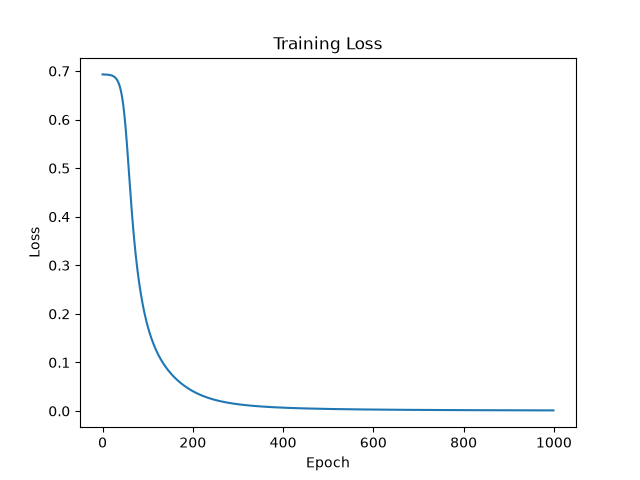
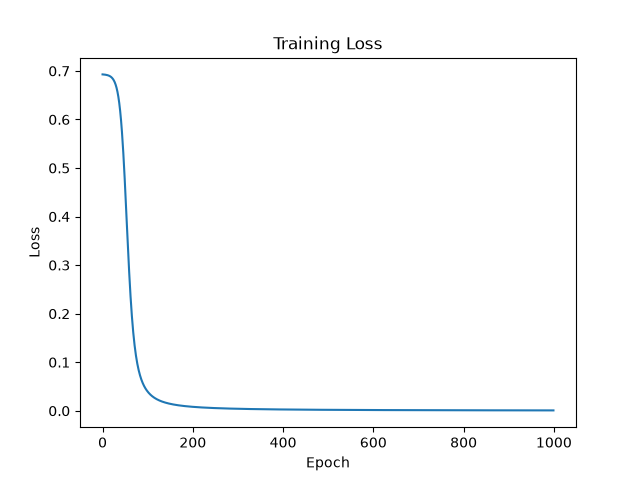
finalize project write-up

Changed region(s): [[0.1562, 0.1562, 0.25, 0.7812], [0.2188, 0.7812, 0.7188, 0.875], [0.25, 0.75, 0.2812, 0.7812]]

diff --git a/writeup.md b/writeup.md
@@ -1,0 +1,352 @@
+# Manual Backpropagation Neural Network
+
+## 1. Objective
+
+The objective of this project is to build a small artificial neural network and implement the backpropagation algorithm manually using NumPy.
+
+The implementation does not use automatic differentiation or built-in backpropagation functions. All gradients are derived using the chain rule and calculated manually.
+
+The network is trained on a binary classification task using the Iris dataset. The manually calculated gradients are independently verified against PyTorch autograd to check the correctness of the implementation.
+
+## 2. Network Architecture
+
+The neural network used in this project has the following architecture:
+
+Input Layer → Hidden Layer → Output Layer
+
+- Input layer: 4 features
+- Hidden layer: 8 neurons
+- Hidden activation: ReLU
+- Output layer: 2 neurons
+- Output activation: Softmax
+- Loss function: Cross-entropy
+
+The model can therefore be represented as:
+
+4 → 8 → 2
+
+The Iris dataset contains three classes, but this project uses only the first two classes to create a binary classification problem.
+
+## 3. Dataset and Preprocessing
+
+The Iris dataset was obtained using scikit-learn.
+
+Only the first two Iris classes were selected, resulting in 100 total samples. The dataset contains four input features:
+
+- Sepal length
+- Sepal width
+- Petal length
+- Petal width
+
+The data was divided into:
+- 80 training samples
+- 20 testing samples
+
+The training and testing split was performed using stratified sampling with a fixed random state.
+
+The input features were standardized using `StandardScaler`. The scaler was fitted only on the training data and then applied to the test data.
+
+The class labels were converted into one-hot encoded vectors for use with the cross-entropy loss function.
+
+## 4. Forward Pass
+
+The forward pass calculates the network's prediction from the input data.
+
+The first linear layer is:
+Z1 = XW1 + b1
+
+The result is passed through the ReLU activation function:
+A1 = ReLU(Z1)
+where:
+ReLU(x) = max(0, x)
+The hidden-layer output is then passed to the second linear layer:
+Z2 = A1W2 + b2
+
+Finally, the output is converted into class probabilities using Softmax:
+A2 = Softmax(Z2)
+The Softmax function converts the two output values into probabilities whose sum is 1.
+The complete forward pass is therefore:
+X → Linear Layer → ReLU → Linear Layer → Softmax → Prediction
+
+For numerical stability, the maximum value in each row of Z2 is subtracted before calculating the exponential in the Softmax function.
+The implementation was tested by checking that the output probabilities had the expected shape and that the probabilities for each sample summed to approximately 1.
+
+## 5. Cross-Entropy Loss
+The network uses categorical cross-entropy to measure the difference between the predicted probabilities and the true class labels.
+
+For one sample, the loss is:
+L = -Σ y_i log(p_i)
+
+where:
+- y_i is the true one-hot encoded label
+- p_i is the predicted probability for class i
+
+The final loss is the mean loss over all training samples.
+A small epsilon value is used when calculating the logarithm to prevent numerical problems caused by log(0).
+The initial loss was approximately 0.693, which is close to the expected value for a two-class classifier making nearly random predictions.
+As training progressed, the loss decreased significantly, demonstrating that the network was learning from the data.
+
+## 6. Manual Backpropagation
+
+Backpropagation calculates how much each parameter contributed to the final loss.
+The gradients are derived using the chain rule and are calculated manually using NumPy.
+The forward pass is:
+X → Z1 → A1 → Z2 → A2 → Loss
+During backpropagation, the gradients flow in the reverse direction:
+Loss → A2 → Z2 → A1 → Z1 → W1
+
+### 6.1 Gradient at the Output Layer
+
+Because the output layer uses Softmax together with cross-entropy loss, their derivatives simplify to:
+dZ2 = (A2 - Y) / m
+where:
+- A2 is the predicted probability matrix
+- Y is the one-hot encoded target matrix
+- m is the number of training samples
+This gives the gradient of the loss with respect to the output layer's pre-activation values.
+
+### 6.2 Gradients for the Second Layer
+
+The second layer is:
+Z2 = A1W2 + b2
+Using the chain rule:
+dW2 = A1ᵀ dZ2
+The bias gradient is
+db2 = Σ dZ2
+The gradient that needs to be propagated back into the hidden layer is:
+dA1 = dZ2 W2ᵀ
+
+### 6.3 Backpropagation Through ReLU
+
+The hidden layer uses the ReLU activation:
+A1 = ReLU(Z1)
+The derivative of ReLU is:
+dReLU/dZ1 = 1, if Z1 > 0
+            0, if Z1 ≤ 0
+Therefore:
+dZ1 = dA1 * (Z1 > 0)
+The expression `(Z1 > 0)` creates a mask that allows gradients to pass through neurons where the ReLU was active and sets the gradient to zero for inactive neurons.
+
+### 6.4 Gradients for the First Layer
+
+The first layer is:Z1 = XW1 + b1
+Therefore:
+dW1 = Xᵀ dZ1
+and:
+db1 = Σ dZ1
+These gradients are then used to update the parameters.
+
+### 6.5 Parameter Update
+
+Gradient descent is used to update the weights and biases:
+W = W - η dW
+b = b - η db
+where η is the learning rate.
+In this project, the learning rate was set to 0.1.
+No automatic differentiation or built-in backpropagation function is used in the neural network implementation. The gradients are calculated directly from the mathematical derivatives above.
+
+## 7. Training Process
+
+The network was trained using gradient descent.
+
+For each training epoch, the following steps were performed:
+
+1. Perform a forward pass to calculate predictions.
+2. Calculate the cross-entropy loss.
+3. Perform the manual backward pass to calculate gradients.
+4. Update all weights and biases using gradient descent.
+5. Store the loss value for visualization.
+
+The training configuration was:
+
+- Learning rate: 0.1
+- Number of epochs: 1000
+- Hidden neurons: 8
+- Optimizer: Gradient Descent
+- Batch: Full training dataset
+
+The loss was recorded after every epoch so that the learning behavior of the network could be visualized.
+
+The training loss decreased from approximately 0.693 at the beginning to less than 0.001 by the end of training.
+
+This large decrease in loss indicates that the manually implemented network successfully learned to distinguish between the two Iris classes.
+
+## 8. Results
+
+The network successfully learned the binary classification task.
+
+The training loss decreased consistently during training:
+
+| Epoch | Loss |
+|------:|-----:|
+| 0 | 0.6933 |
+| 100 | 0.0404 |
+| 200 | 0.0081 |
+| 300 | 0.0041 |
+| 400 | 0.0027 |
+| 500 | 0.0019 |
+| 600 | 0.0015 |
+| 700 | 0.0012 |
+| 800 | 0.0010 |
+| 900 | 0.0009 |
+
+The loss curve is saved in:
+
+`results/loss_curve.png`
+
+The graph shows a rapid reduction in loss during the early stages of training, followed by a slower decrease as the model approaches a low-loss solution.
+
+The model was also evaluated on the held-out test set after training.
+The model achieved 100.0% test accuracy (20/20 correct predictions) on the held-out test set. However, this result should be interpreted cautiously because the dataset is small and the task uses only two relatively separable Iris classes
+
+## 9. Gradient Verification
+
+To verify the correctness of the manually implemented backpropagation, the gradients were compared against gradients calculated independently using PyTorch autograd.
+
+PyTorch was used only as a reference for verification. It is not used anywhere in the actual neural network implementation or training process.
+
+The verification process was:
+
+1. Create a small test dataset.
+2. Initialize the NumPy model.
+3. Calculate gradients using the manually implemented `backward()` function.
+4. Create an equivalent computation in PyTorch using the same inputs and parameters.
+5. Use PyTorch autograd to calculate reference gradients.
+6. Compare the manual gradients with the reference gradients.
+7. Check whether the maximum absolute difference is below a specified tolerance.
+
+The tolerance used was:
+
+`1 × 10⁻⁷`
+
+### Verification Results
+
+The comparison produced the following results:
+
+| Parameter | Maximum Difference | Result |
+|-----------|-------------------:|--------|
+| W1 | 4.34 × 10⁻¹⁹ | PASS |
+| b1 | 2.17 × 10⁻¹⁹ | PASS |
+| W2 | 8.67 × 10⁻¹⁹ | PASS |
+| b2 | 2.78 × 10⁻¹⁷ | PASS |
+
+All differences were far below the chosen tolerance.
+
+The final output of the verification program was:
+
+`ALL GRADIENT TESTS PASSED`
+
+This provides strong evidence that the manually derived gradients match the gradients produced by an independent automatic differentiation system.
+
+### Important Implementation Constraint
+
+The neural network itself does not use:
+
+- `torch.autograd`
+- `.backward()`
+- PyTorch tensors for training
+- Any automatic differentiation library
+
+The actual forward pass, loss calculation, backpropagation, and parameter updates are implemented using NumPy.
+
+PyTorch autograd is used only in the separate gradient verification test.
+
+## 10. Gradient Debugging and Common Mistakes
+
+Implementing backpropagation manually requires careful handling of matrix dimensions, activation derivatives, and averaging over the training samples.
+
+Several potential sources of gradient errors were considered during implementation.
+
+### 10.1 ReLU Derivative
+
+A common mistake when implementing backpropagation is to propagate the gradient through the ReLU activation without applying its derivative.
+
+The correct calculation is:
+
+dZ1 = dA1 * (Z1 > 0)
+
+The `(Z1 > 0)` term acts as a mask. Without this mask, gradients would incorrectly pass through neurons whose ReLU activation was zero.
+
+### 10.2 Averaging the Output Gradient
+
+Another important detail is the division by the number of samples:
+
+dZ2 = (A2 - Y) / m
+
+The loss function calculates the mean loss over all samples, so the corresponding gradient must also be averaged over the batch.
+
+### 10.3 Matrix Dimensions
+
+The dimensions of every gradient were checked to ensure that the chain rule was being applied correctly.
+
+For the training data, the main dimensions are:
+
+- X: (80, 4)
+- W1: (4, 8)
+- b1: (1, 8)
+- W2: (8, 2)
+- b2: (1, 2)
+- dW1: (4, 8)
+- db1: (1, 8)
+- dW2: (8, 2)
+- db2: (1, 2)
+
+Checking these dimensions helped ensure that the matrix multiplications represented the intended mathematical operations.
+
+### 10.4 Gradient Verification as a Debugging Tool
+
+Instead of relying only on the training loss, the implementation was tested using an independent gradient verification program.
+
+The manually calculated gradients were compared with PyTorch autograd gradients using the same parameters and input data.
+
+All four gradients passed the verification test with differences far below the selected tolerance.
+
+This verification made it possible to distinguish between problems in the gradient calculations and other possible training issues such as the learning rate or data preprocessing.
+
+## 11. Limitations and Future Improvements
+
+Although the network successfully performs the classification task, the implementation is intentionally small and educational.
+
+Some limitations are:
+
+- The network contains only one hidden layer.
+- The model is trained using full-batch gradient descent.
+- Only the first two Iris classes are used.
+- The dataset is relatively small and simple.
+- The implementation does not include advanced optimizers such as Adam.
+- There is no regularization such as dropout or L2 regularization.
+
+Possible future improvements include:
+
+- Adding more hidden layers.
+- Supporting additional activation functions such as Sigmoid or Tanh.
+- Implementing Momentum or Adam manually.
+- Supporting mini-batch training.
+- Extending the model to all three Iris classes.
+- Adding numerical gradient checking in addition to the PyTorch comparison.
+- Experimenting with different learning rates and network sizes.
+
+These improvements would make the implementation more flexible while still allowing the underlying mathematics of backpropagation to remain visible.
+
+## 12. Conclusion
+
+This project demonstrates a complete neural network implemented from the ground up using NumPy.
+
+The implementation includes:
+
+- Data preprocessing
+- Forward propagation
+- ReLU activation
+- Softmax output
+- Cross-entropy loss
+- Manual backpropagation
+- Gradient descent
+- Model evaluation
+- Training loss visualization
+- Independent gradient verification
+
+The most important part of the project was implementing backpropagation manually using the chain rule rather than relying on an automatic differentiation framework.
+
+The gradient verification results showed that the manually calculated gradients closely matched PyTorch's independently calculated gradients, providing strong evidence that the implementation is mathematically correct.
+
+The project therefore demonstrates both the practical implementation and the underlying mathematics of neural network training.
